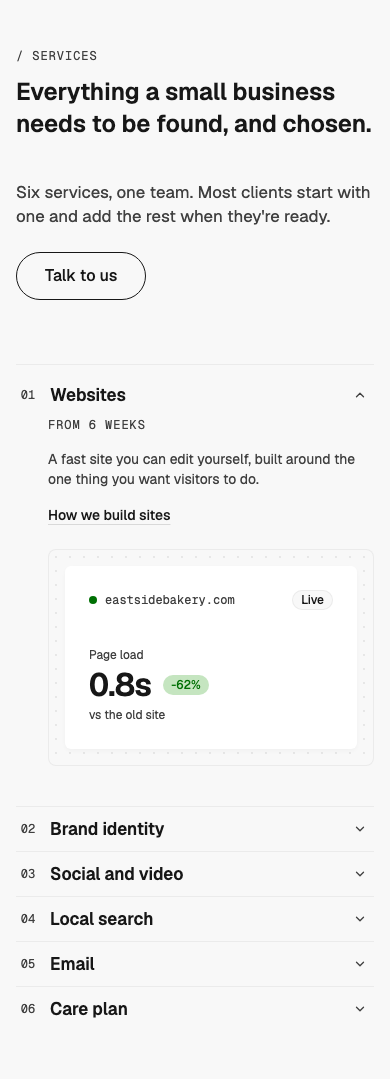
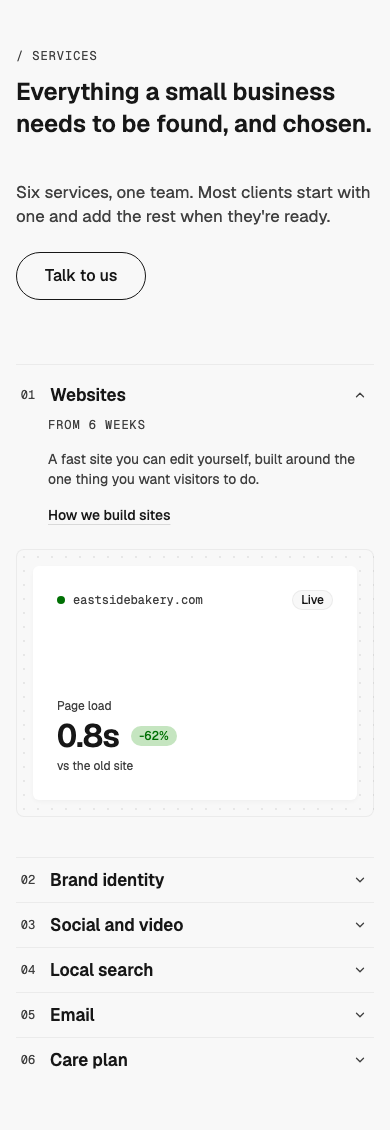
Services — Split Index: phone picture full width at 4:3 (a minimum, grows instead of cropping), so stat pictures show whole (P1)

diff --git a/patterns/services/split-index/ServicesSplitIndex.tsx b/patterns/services/split-index/ServicesSplitIndex.tsx
@@ -71,8 +71,13 @@ const metaClasses = "hidden font-mono text-xs uppercase tracking-[0.08em] text-m
 /** On phones the row hides its meta, so the open panel repeats it. */
 const phoneMetaClasses = "font-mono text-xs uppercase tracking-[0.08em] text-muted sm:hidden";
 const panelClasses = "flex flex-col items-start gap-4 pb-6 pl-8";
+/**
+ * Phones: the picture stacks under the open service's copy, full content width (it steps out of the panel's
+ * 32px indent) at 4:3, so stat pictures fit (P1: their figures are content). No overflow clip: 4:3 is a minimum, and on a
+ * narrow phone the frame grows to fit a taller picture rather than crop it.
+ */
 const mobileFrameClasses = cn(
-  "mt-2 flex aspect-[3/2] w-full items-stretch overflow-hidden rounded-lg border border-border p-4 md:hidden",
+  "mt-2 -ml-8 flex aspect-[4/3] w-[calc(100%+2rem)] items-stretch rounded-lg border border-border p-4 md:hidden",
   backgroundPatternDotGridClasses,
 );
 

diff --git a/patterns/services/split-index/README.md b/patterns/services/split-index/README.md
@@ -46,7 +46,7 @@ import { ServicesSplitIndex } from "./ServicesSplitIndex";
 - **Frame shape:** square on tablet; on desktop 3:2 with 5–6 services and 16:9 with 3–4, so the list and frame end close together either way.
 - **Titles:** keep them to about 22 characters. WMDS Accordion sets the label on one line and cuts a longer one with an ellipsis. Meta ("From 6 weeks") hides in the row on phones and is repeated at the top of the open panel.
 - **Each picture renders twice** (in the frame and in its phone row). Fine for SVG and small images; for a video, load it lazily or pass a poster on phones.
-- **Phones (< 768px):** the frame is hidden and the open row shows its picture under the description.
+- **Phones (< 768px):** the frame is hidden and the open row shows its picture under the description, at full content width and 4:3. 4:3 is a minimum: a taller picture (a stat list on a 320px phone) grows the frame instead of being cropped. Pictures with figures are content (P1), so they always show.
 - **Motion:** the Accordion's own open and close, plus a **150ms ease-out crossfade** when the shown picture changes (CSS opacity, so the outgoing and incoming pictures overlap). Under `prefers-reduced-motion` the picture swaps with no fade. This is the one place the pattern animates beyond WMDS, by Randy's call (2026-10-28).
 
 ## Knobs
@@ -65,7 +65,7 @@ The first item is the example the gallery's Copy prompt uses.
 
 ## Spacing
 
-Full width; section padding 48 / 64 top and bottom (phone / tablet and up); caption→heading 24; header→cells 40 / 64; 32 each side of the centre rule.
+Full width; section padding 48 top and bottom (WMDS Band `md`, Spacing S8); caption→heading 24; header→cells 40 / 64; 32 each side of the centre rule.
 
 ## WMDS
 
